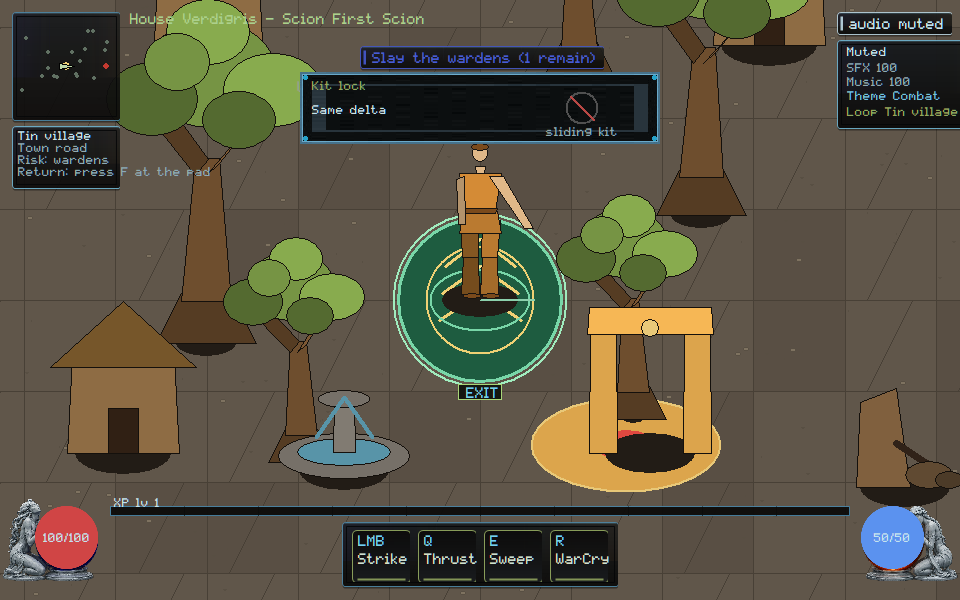
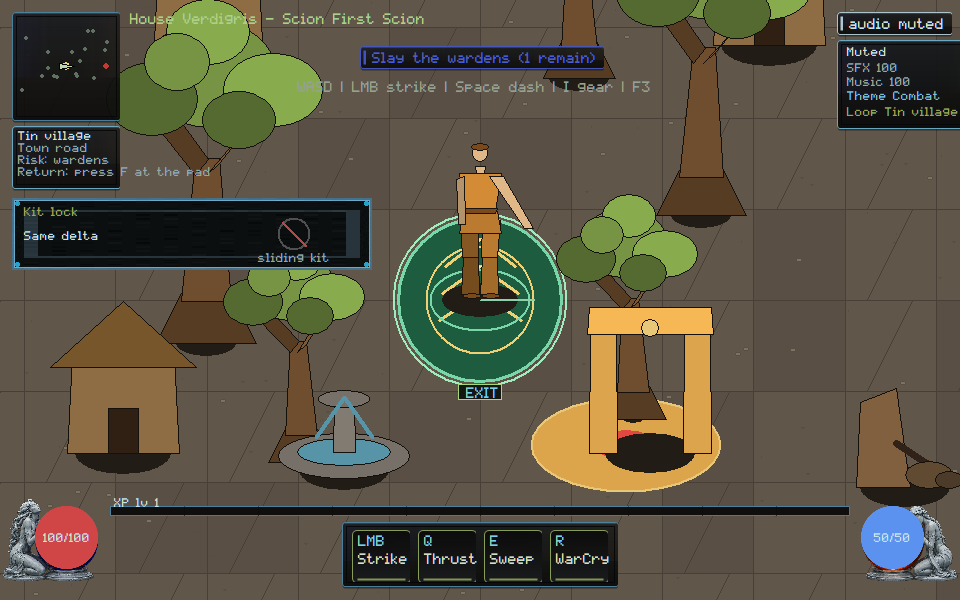
native: park Kit lock off WASD and Tin village so covering combat HUD cannot certify

Changed region(s): [[0.0, 0.33, 0.4062, 0.45], [0.3125, 0.12, 0.6875, 0.24]]

diff --git a/native/client/main.cpp b/native/client/main.cpp
@@ -8618,8 +8618,12 @@ void paint_move_and_camera_review_strip(ClientState& state, HDC dc, const RECT& 
   const int s = hud_scale(static_cast<int>(bounds.bottom));
   const int pane_w = 360 * s;
   const int pane_h = 72 * s;
-  const int left = (static_cast<int>(bounds.right) - pane_w) / 2;
-  const int top = 72 * s;
+  const HudRect parked =
+      park_review_strip(state, static_cast<int>(bounds.right),
+                        static_cast<int>(bounds.bottom), pane_w, pane_h);
+  const int left = parked.x;
+  const int top = parked.y;
+  state.hud_rect_trace.push_back({"move-strip", parked});
   RECT pane{left, top, left + pane_w, top + pane_h};
   if (!draw_framekit_nine(state.billboards, dc, state.billboards.fk_panel, pane))
     skin::panel(dc, pane, skin::kVerdigris, 235, 8.0f);
@@ -10946,6 +10950,30 @@ int scenario_move_and_camera() {
   scenario_check(kit_lock && same_delta,
                  "move-and-camera: live HUD names Kit lock and Same delta");
   scenario_check(sliding_kit, "move-and-camera: live HUD rejects sliding kit");
+  {
+    auto trace_find = [](const ClientState& s,
+                         const char* label) -> const HudRect* {
+      for (const auto& entry : s.hud_rect_trace)
+        if (entry.first == label) return &entry.second;
+      return nullptr;
+    };
+    const HudRect* strip = trace_find(state, "move-strip");
+    const HudRect* ctrl = trace_find(state, "controls");
+    const HudRect* objective = trace_find(state, "objective");
+    const HudRect* route = trace_find(state, "route-card");
+    const HudRect* life = trace_find(state, "orb-life");
+    const bool covers =
+        (strip && ctrl && hud_rects_overlap(*strip, *ctrl)) ||
+        (strip && objective && hud_rects_overlap(*strip, *objective)) ||
+        (strip && route && hud_rects_overlap(*strip, *route)) ||
+        (strip && life && hud_rects_overlap(*strip, *life));
+    scenario_check(
+        camera2d::kit_lock_strip_covers_hud_fails_review(true),
+        "move-and-camera: covering WASD, the objective, Tin village, or Life is the anti-pattern");
+    scenario_check(
+        !camera2d::kit_lock_strip_covers_hud_fails_review(covers),
+        "move-and-camera: Kit lock stays off WASD, the objective, Tin village, and Life");
+  }
   return 0;
 }
 

diff --git a/native/client/camera2d.hpp b/native/client/camera2d.hpp
@@ -65,5 +65,8 @@ inline const char* owner_zoom_lock_label() { return "Zoom lock"; }
 inline bool zoom_strip_covers_hud_fails_review(bool overlap) { return overlap; }
 inline const char* owner_kit_lock_label() { return "Kit lock"; }
 inline const char* owner_same_delta_label() { return "Same delta"; }
+inline bool kit_lock_strip_covers_hud_fails_review(bool overlap) {
+  return overlap;
+}
 
 }  // namespace camera2d

diff --git a/docs/execution/CROSSWALK.md b/docs/execution/CROSSWALK.md
@@ -41,7 +41,7 @@ Cursor evidence notes.
 | VG-UI-006 | extend | TASK-0145/0177 + 0190/0197/0201 — **do not duplicate** |
 | VG-UI-007 | extend | TASK-0159 INTEGRATED, 0118 READY, 0207; `hud-pane-readability` at 960/1366/3440 + tree/character keep-out + `hud-scale-floor` + live window; TASK-0159 folder capture cannot certify; clipped C or Esc closes cannot certify; clipped I or Esc closes gear footer cannot certify; clipped DEF/LVL cannot certify; VG-UI-006 Owner Demo not duplicated |
 | VG-UI-008 | new | XInput tick path + glyphs (`pad-path`); not mouse emulation |
-| VG-ART-001/002/004 | extend | TASK-0141 INTEGRATED — village kit + collision-proxy ops (`kit-chunk`); not artist-local collision; Adult camera / Jointed warden / Uniform pan stay off WASD/objective/Tin village/Life |
+| VG-ART-001/002/004 | extend | TASK-0141 INTEGRATED — village kit + collision-proxy ops (`kit-chunk`); not artist-local collision; Adult camera / Jointed warden / Uniform pan / Kit lock stay off WASD/objective/Tin village/Life |
 | VG-ART-003/006 | extend | TASK-0122 INTEGRATED; 0173/0174 READY; 0186/0187 BRIDGE_PREP — Cursor paints melee **poses** (VG-ART-003) and WarCry **weave labels** plus Phase A spawn/fade (VG-ART-006) without taking TASK-0173 models or re-speccing TASK-0108; Hit flash stays off WASD/objective/Tin village/Life |
 | VG-ART-005 | extend | TASK-0182 AUTO_RELEASE, 0184; `held-item` world attachment + `loot-to-bank` pickup-to-equip hold; paper-doll seat alone cannot pass; World hold / Unarmed first stay off WASD, the objective, Tin village, and Life |
 | VG-ART-007/008 | extend | TASK-0206/0205/0207 — Owner Demo, do not duplicate |
@@ -184,7 +184,8 @@ Jointed warden / Snout claws and parks off WASD, the objective,
 Tin village, and Life. Covering those combat surfaces cannot certify.
 `zoom-invariance` owner strip paints Uniform pan / Zoom lock and parks
 off WASD, the objective, Tin village, and Life.
-`move-and-camera` owner strip paints Kit lock / Same delta. An external
+`move-and-camera` owner strip paints Kit lock / Same delta and parks
+off WASD, the objective, Tin village, and Life. An external
 concept-art token cannot substitute, a skeleton `art: PNG billboards
 loaded` chip cannot count as the composition sheet, a chibi (1/3) head
 cannot pass as adult, a crate foe cannot certify, a free tile cannot

diff --git a/docs/execution/CROSSWALK_REGISTRY.md b/docs/execution/CROSSWALK_REGISTRY.md
@@ -127,7 +127,7 @@ not implemented here.
 | VG-GPU-006 | G3 | new | material-light |
 | VG-GPU-007 | G2 | new | gpu-capture + PNG R/B honesty; swapped still cannot certify |
 | VG-GPU-008 | G3 | new | gpu-recover |
-| VG-ART-001 | G1 | extend | visual-target Adult camera stays off WASD/objective/Tin village/Life; first-fight Jointed warden stays off WASD/objective/Tin village/Life; zoom-invariance Uniform pan stays off WASD/objective/Tin village/Life; move-and-camera kit lock |
+| VG-ART-001 | G1 | extend | visual-target Adult camera stays off WASD/objective/Tin village/Life; first-fight Jointed warden stays off WASD/objective/Tin village/Life; zoom-invariance Uniform pan stays off WASD/objective/Tin village/Life; move-and-camera Kit lock stays off WASD/objective/Tin village/Life |
 | VG-ART-002 | G2 | extend | bronze-stone family |
 | VG-ART-003 | G2 | extend | attack-poses; combat-juice Hit flash stays off WASD/objective/Tin village/Life; not TASK-0108 |
 | VG-ART-004 | G2 | extend | kit-chunk: hut, ruin, fountain, gate in spawn capture |

diff --git a/orchestration/CURSOR_KIMI_LANES.md b/orchestration/CURSOR_KIMI_LANES.md
@@ -1113,3 +1113,15 @@ Please move off that branch before taking a new native path.
   remain yours. GOV-002 still unstamped.
   Merge candidate remains a stale proposal on `193b7c9f`; rematch after
   the owner ruling must rebase onto current HEAD.
+
+## Cursor reply (2026-09-06, Kit lock off WASD and Tin village)
+
+- **Lease:** `main.cpp` still **ACTIVE**. `remote_session.cpp` stays
+  **RELEASED**. Do not re-spec TASK-0108 core/wire (`3b929637`).
+- **Landed this push:** VG-ART-001/007 — Kit lock parks off WASD, the
+  objective, Tin village, and Life. Covering those cannot certify.
+  Sliding kit still rejected. Captures viewed. Not Owner Demo.
+- **Stay off** `native/client/main.cpp` and `docs/execution/**`. SEC/CORE
+  remain yours. GOV-002 still unstamped.
+  Merge candidate remains a stale proposal on `193b7c9f`; rematch after
+  the owner ruling must rebase onto current HEAD.

diff --git a/docs/rebuild/HANDOFF.md b/docs/rebuild/HANDOFF.md
@@ -1,5 +1,14 @@
 # Native reconstitution handoff
 
+## 2026-09-06 — Kit lock off WASD and Tin village (Cursor)
+
+- VG-ART-001 / VG-UI-007: Kit lock / Same delta parks off WASD, the
+  objective, Tin village, and Life. Covering those combat surfaces
+  cannot certify. Sliding kit still rejected. Owner Demo journeys not
+  duplicated.
+- Scenario `move-and-camera` PASS. Capture viewed. Not Owner Demo. Not
+  TASK-0108.
+
 ## 2026-09-06 — Uniform pan off WASD and Tin village (Cursor)
 
 - VG-ART-001 / VG-UI-007: Uniform pan / Zoom lock parks off WASD, the
